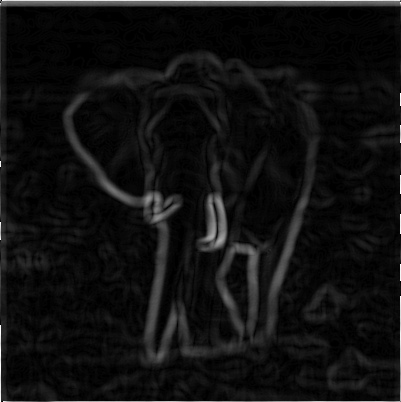
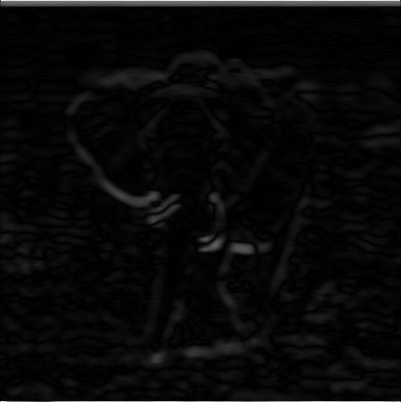
Prewitt Edge Detection function added, Sobel Edge Detection fixes

diff --git a/scripts/assignment.py b/scripts/assignment.py
@@ -71,10 +71,9 @@ def histogram_equalization(filepath):
 def sobel_edge_detection(filepath):
 	img = cv2.imread(filepath, cv2.CV_LOAD_IMAGE_GRAYSCALE)
 	padded_image = cv2.copyMakeBorder(img,1,1,1,1,cv2.BORDER_CONSTANT,value = 0)
-	Gximg = img
-	Gyimg = img
-	new = img
-
+	Gximg = img.copy()
+	Gyimg = img.copy()
+	new = img.copy()
 	for row in xrange(1,padded_image.shape[0]-1):
 		for column in xrange(1,padded_image.shape[1]-1):
 			Gx = (padded_image[row - 1, column + 1] + (2.0 * padded_image[row, column + 1]) + padded_image[row + 1, column + 1]) - (padded_image[row - 1, column - 1] + (2.0 * padded_image[row, column - 1]) + padded_image[row + 1, column - 1])
@@ -82,39 +81,51 @@ def sobel_edge_detection(filepath):
 			Gy = (padded_image[row - 1, column - 1] + (2.0 * padded_image[row - 1, column]) + padded_image[row - 1, column + 1]) - (padded_image[row + 1, column - 1] + (2.0 * padded_image[row + 1, column]) + padded_image[row + 1, column + 1])
 			Gyimg[row - 1, column - 1] = math.fabs(Gy)
 			new[row - 1, column - 1] = math.fabs(Gx) + math.fabs(Gy)
-	# row = 200
-	# column = 100
-	# Gx = (padded_image[row - 1, column + 1] + 2 * padded_image[row, column + 1] + padded_image[row + 1, column + 1]) - (padded_image[row - 1, column - 1] + 2 * padded_image[row, column - 1] + padded_image[row + 1, column - 1])
-	# Gximg[row - 1, column - 1] = Gx		
-	# Gy = (padded_image[row - 1, column - 1] + 2 * padded_image[row - 1, column] + padded_image[row - 1, column + 1]) - (padded_image[row + 1, column - 1] + 2 * padded_image[row + 1, column] + padded_image[row + 1, column + 1])
-	# Gyimg[row - 1, column - 1] = Gy
-	# img[row - 1, column - 1] = math.sqrt(Gx ** 2 + Gy ** 2)
-	# print Gx
-	# print Gy
-	# print img[row - 1, column - 1]
+
 	cv2.imwrite('..\\results\\sobel_edge_detection.png',new)
 	cv2.imwrite('..\\results\\sobel_edge_detection_Gx.png',Gximg)
-	cv2.imwrite('..\\results\\sobel_edge_detection_GY.png',Gyimg)
-	cv2.imwrite('..\\results\\padded_image.png',padded_image)
+	cv2.imwrite('..\\results\\sobel_edge_detection_Gy.png',Gyimg)
+	
+def prewitt_edge_detection(filepath):
+	img = cv2.imread(filepath, cv2.CV_LOAD_IMAGE_GRAYSCALE)
+	padded_image = cv2.copyMakeBorder(img,1,1,1,1,cv2.BORDER_CONSTANT,value = 0)
+	new = img.copy()
 
-	# img = cv2.imread(filepath, cv2.CV_LOAD_IMAGE_GRAYSCALE)
-	# padded_image = cv2.copyMakeBorder(img,1,1,1,1,cv2.BORDER_padded_image)
+	for row in xrange(1,padded_image.shape[0]-1):
+		for column in xrange(1,padded_image.shape[1]-1):
+			kernelList = []
 
-	# for row in xrange(1,padded_image.shape[0]-1):
-	# 	for column in xrange(1,padded_image.shape[1]-1):
-			
+			kernel1 = (-1 * padded_image[row - 1, column - 1]) + (1 * padded_image[row - 1, column]) + (1 * padded_image[row - 1, column + 1]) + (-1 * padded_image[row, column - 1]) + (-2 * padded_image[row, column]) + (1 * padded_image[row, column + 1]) + (-1 * padded_image[row + 1, column - 1]) + (1 * padded_image[row + 1, column]) + (1 * padded_image[row + 1, column + 1])
 
-	# cv2.imwrite('..\\results\\sobel_edge_detection_Gy.png',img)
+			kernel2 = (1 * padded_image[row - 1, column - 1]) + (1 * padded_image[row - 1, column]) + (1 * padded_image[row - 1, column + 1]) + (-1 * padded_image[row, column - 1]) + (-2 * padded_image[row, column]) + (1 * padded_image[row, column + 1]) + (-1 * padded_image[row + 1, column - 1]) + (-1 * padded_image[row + 1, column]) + (1 * padded_image[row + 1, column + 1])
 
+			kernel3 = (1 * padded_image[row - 1, column - 1]) + (1 * padded_image[row - 1, column]) + (1 * padded_image[row - 1, column + 1]) + (1 * padded_image[row, column - 1]) + (-2 * padded_image[row, column]) + (1 * padded_image[row, column + 1]) + (-1 * padded_image[row + 1, column - 1]) + (-1 * padded_image[row + 1, column]) + (-1 * padded_image[row + 1, column + 1])
+
+			kernel4 = (1 * padded_image[row - 1, column - 1]) + (1 * padded_image[row - 1, column]) + (1 * padded_image[row - 1, column + 1]) + (1 * padded_image[row, column - 1]) + (-2 * padded_image[row, column]) + (-1 * padded_image[row, column + 1]) + (1 * padded_image[row + 1, column - 1]) + (-1 * padded_image[row + 1, column]) + (-1 * padded_image[row + 1, column + 1])
+
+			kernel5 = (1 * padded_image[row - 1, column - 1]) + (1 * padded_image[row - 1, column]) + (-1 * padded_image[row - 1, column + 1]) + (1 * padded_image[row, column - 1]) + (-2 * padded_image[row, column]) + (-1 * padded_image[row, column + 1]) + (1 * padded_image[row + 1, column - 1]) + (1 * padded_image[row + 1, column]) + (-1 * padded_image[row + 1, column + 1])
+
+			kernel6 = (1 * padded_image[row - 1, column - 1]) + (-1 * padded_image[row - 1, column]) + (-1 * padded_image[row - 1, column + 1]) + (1 * padded_image[row, column - 1]) + (-2 * padded_image[row, column]) + (-1 * padded_image[row, column + 1]) + (1 * padded_image[row + 1, column - 1]) + (1 * padded_image[row + 1, column]) + (1 * padded_image[row + 1, column + 1])
+
+			kernel7 = (-1 * padded_image[row - 1, column - 1]) + (-1 * padded_image[row - 1, column]) + (-1 * padded_image[row - 1, column + 1]) + (1 * padded_image[row, column - 1]) + (-2 * padded_image[row, column]) + (1 * padded_image[row, column + 1]) + (1 * padded_image[row + 1, column - 1]) + (1 * padded_image[row + 1, column]) + (1 * padded_image[row + 1, column + 1])
+
+			kernel8 = (-1 * padded_image[row - 1, column - 1]) + (-1 * padded_image[row - 1, column]) + (1 * padded_image[row - 1, column + 1]) + (-1 * padded_image[row, column - 1]) + (-2 * padded_image[row, column]) + (1 * padded_image[row, column + 1]) + (1 * padded_image[row + 1, column - 1]) + (1 * padded_image[row + 1, column]) + (1 * padded_image[row + 1, column + 1])
+
+			kernelList.extend([math.fabs(kernel1), math.fabs(kernel2), math.fabs(kernel3), math.fabs(kernel4), math.fabs(kernel5), math.fabs(kernel6), math.fabs(kernel7), math.fabs(kernel8)])
+			new[row - 1, column - 1] = max(kernelList)
+
+
+	cv2.imwrite('..\\results\\prewitt_edge_detection.png',new)
 
 
 image1 = "..\\images\\image1.png"
 image2 = "..\\images\\image2.png"
 image3 = "..\\images\\image3.png"
 
-contrast_stretching(image1)
-histogram_equalization(image1)
-sobel_edge_detection(image2)
+# contrast_stretching(image1)
+# histogram_equalization(image1)
+# sobel_edge_detection(image2)
+prewitt_edge_detection(image2)
 
 # print 'RGB shape: ', img.shape 
 # print 'rows: ', img.shape[0]
